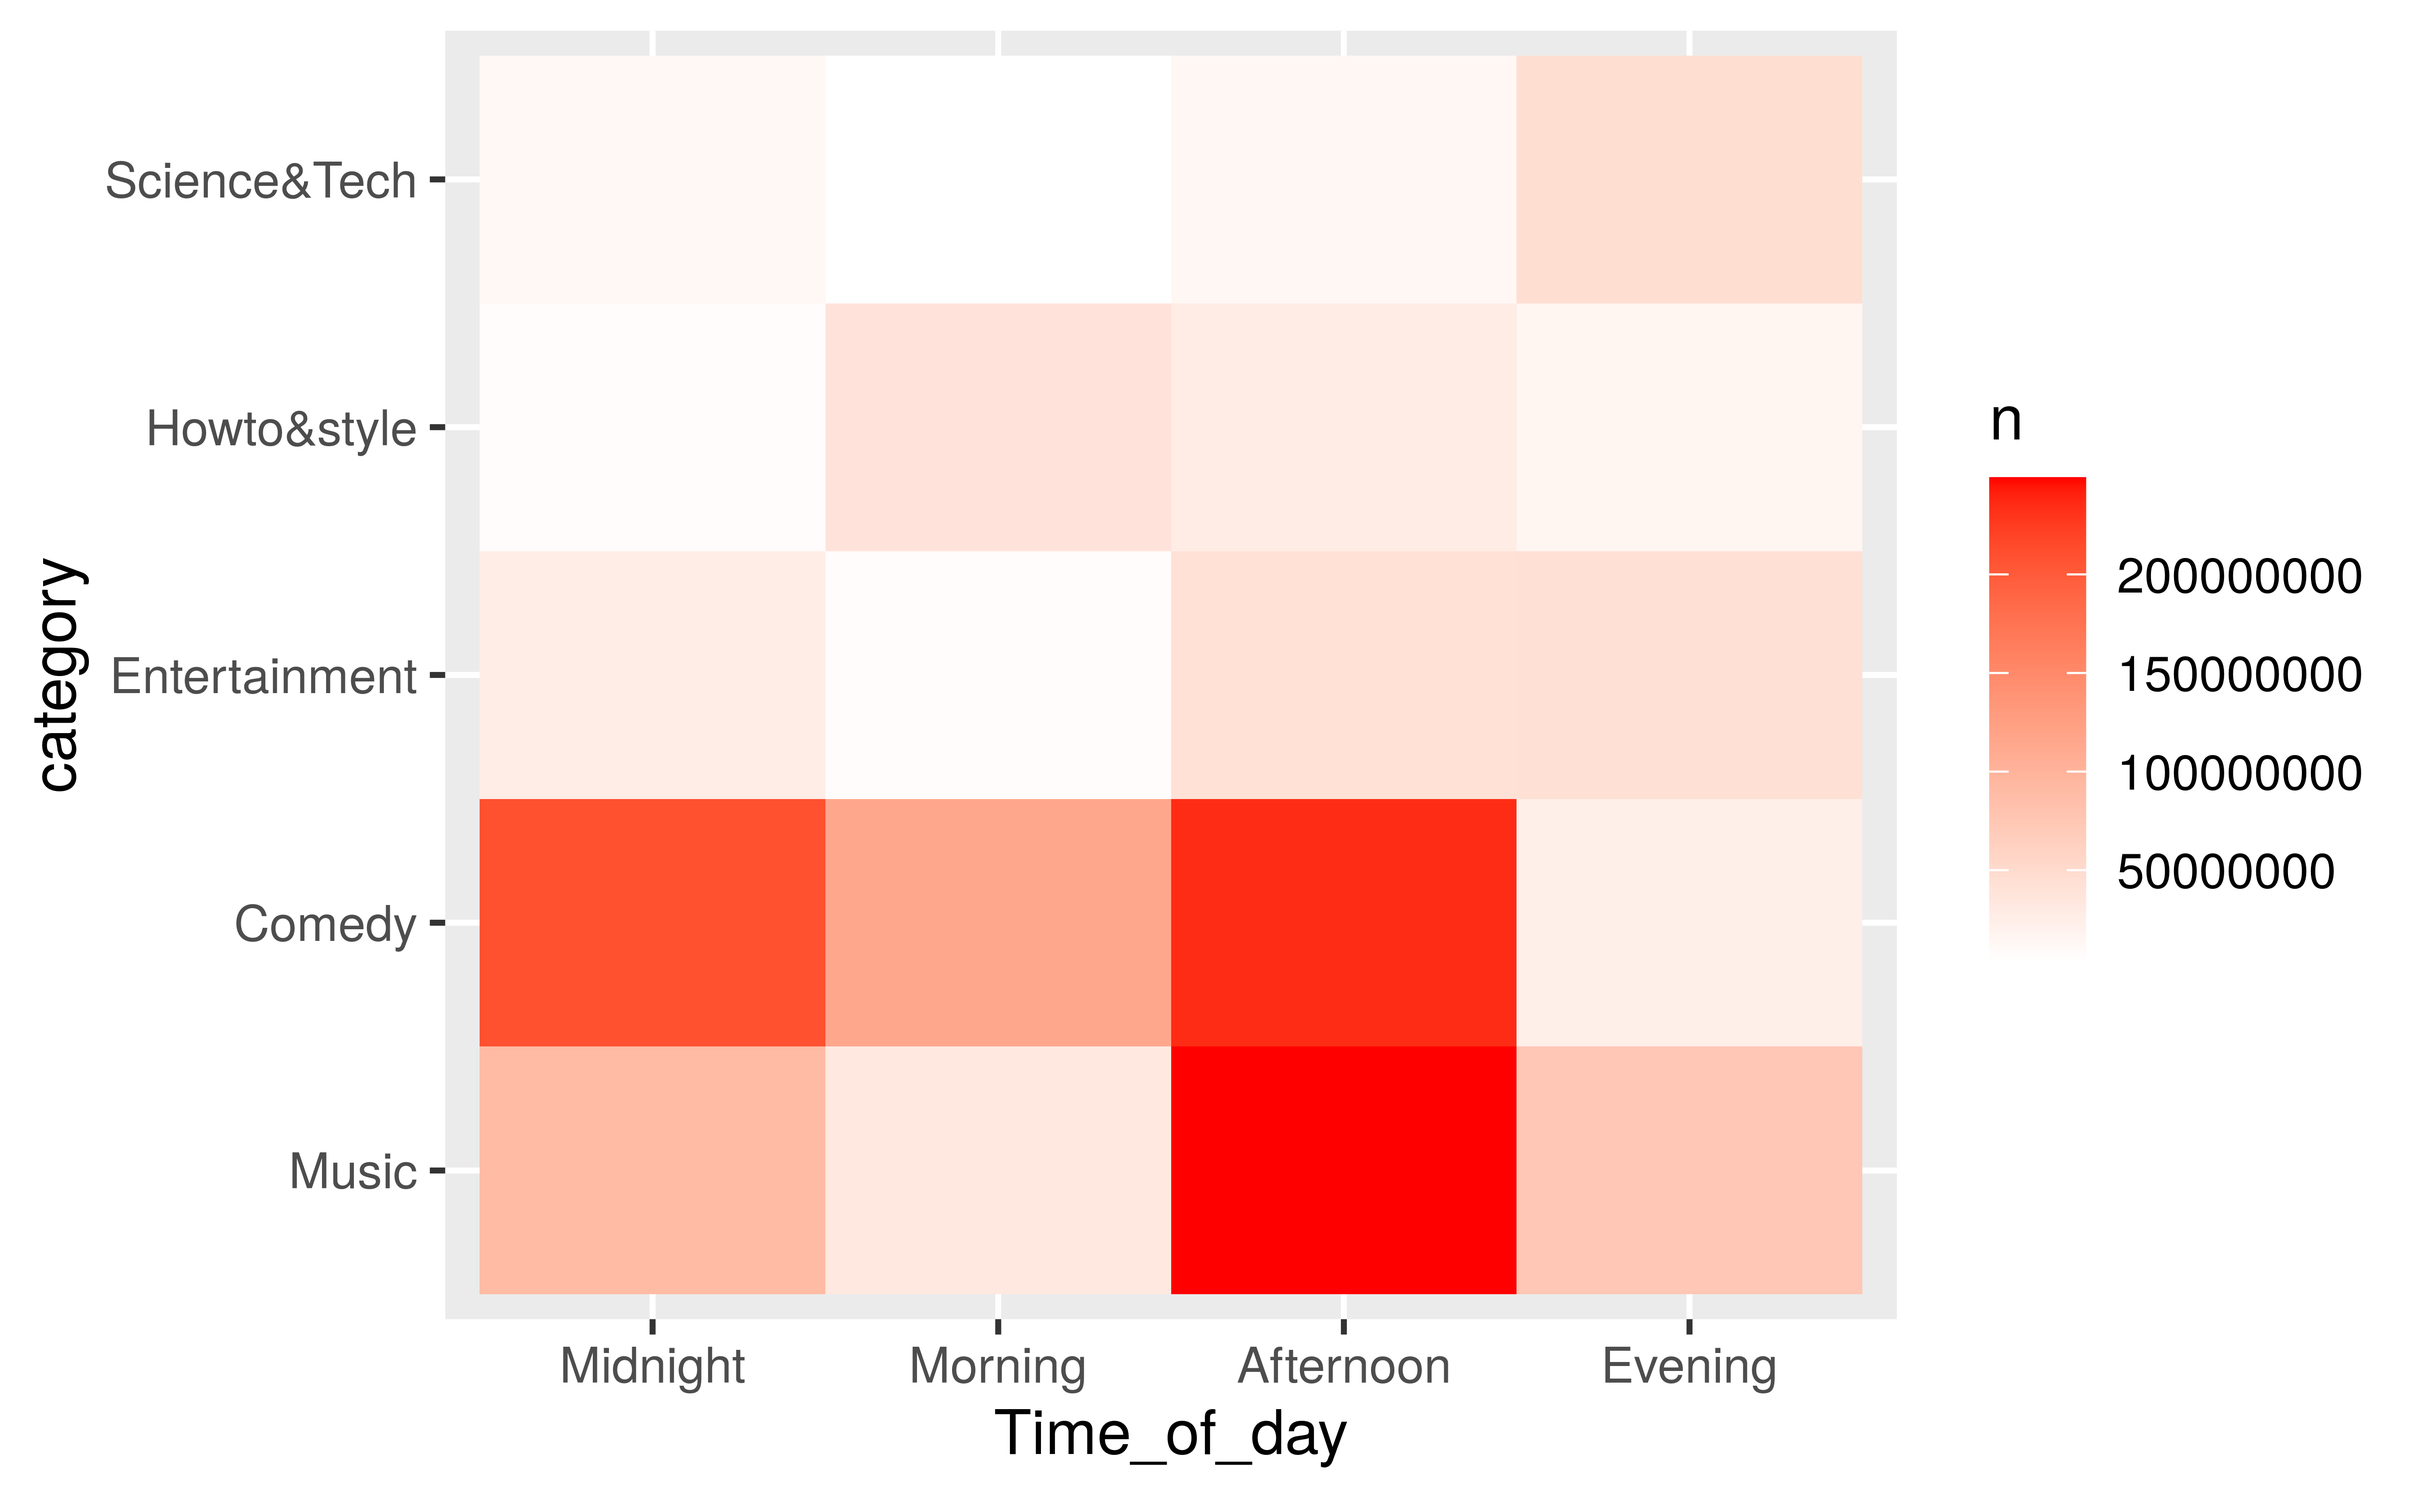
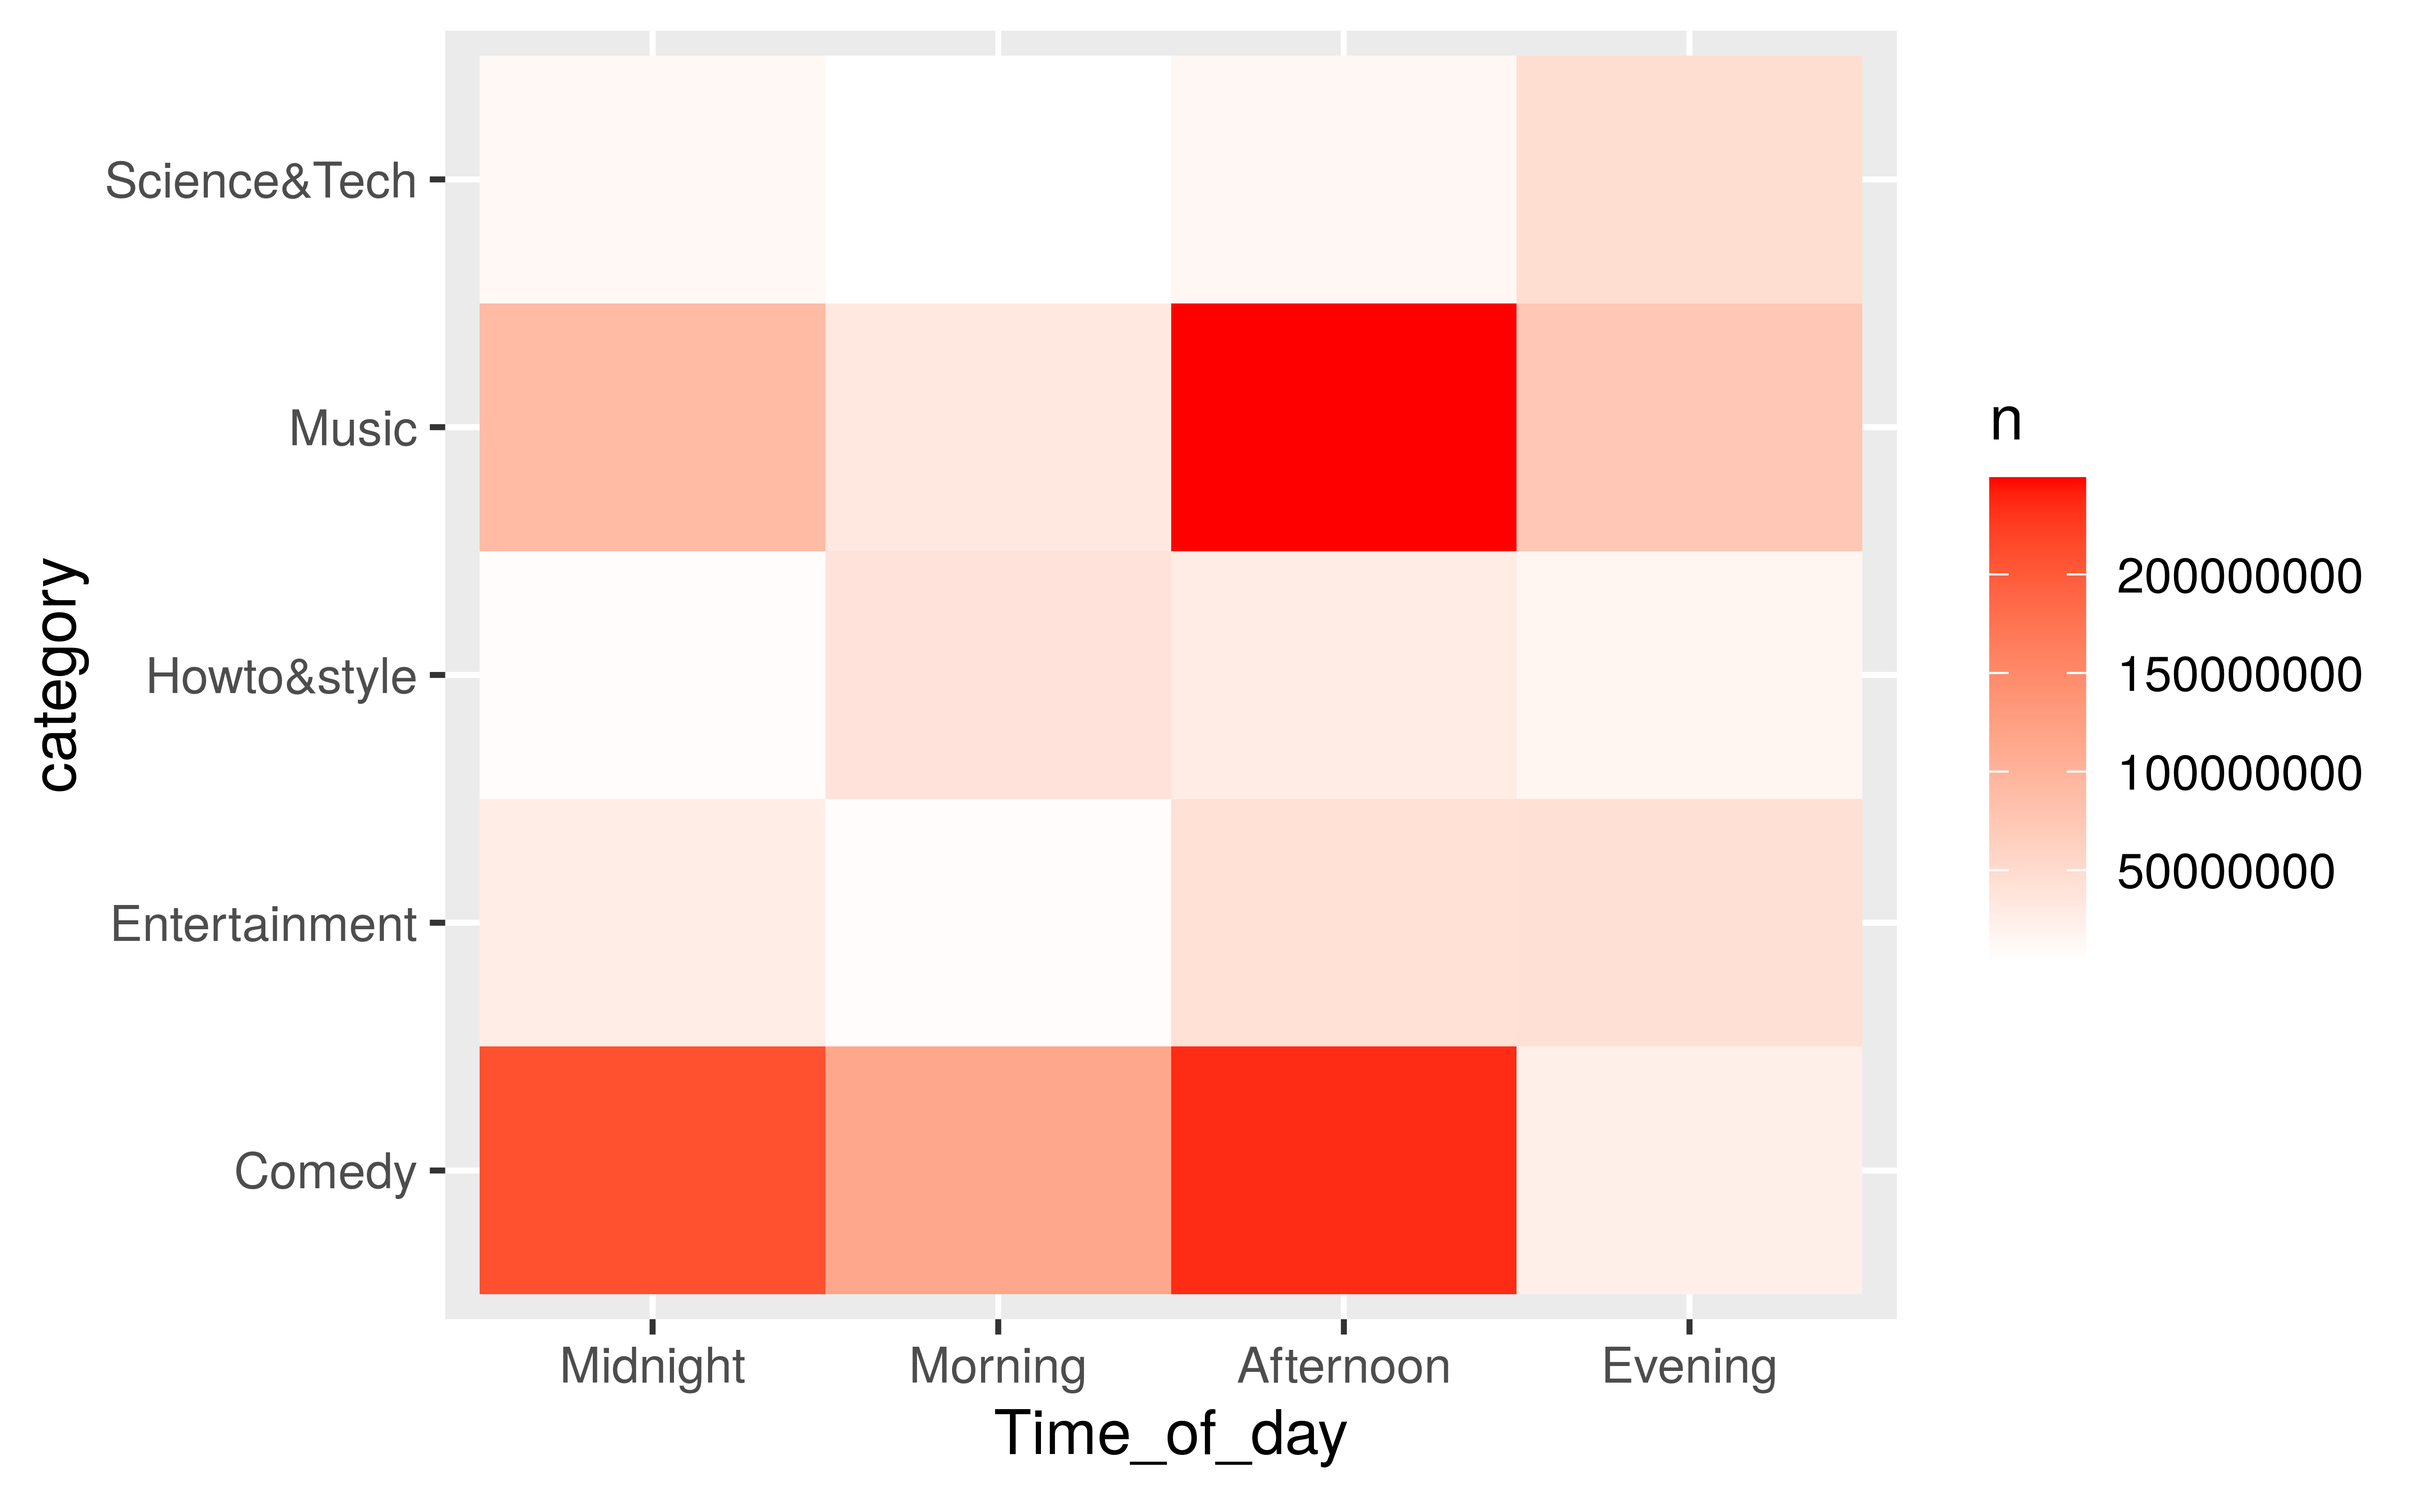
edit order of plot

Changed region(s): [[0.0311, 0.187, 0.7778, 0.8726], [0.0311, 0.4363, 0.1867, 0.4675]]

diff --git a/presentation/presentation.html b/presentation/presentation.html
@@ -165,7 +165,6 @@ class: inverse, middle, center
 
 &lt;img src="presentation_files/figure-html/tile plot-1.png" width="80%" /&gt;
 
-more views--darker the color
 ---
 
 # Clickbait
